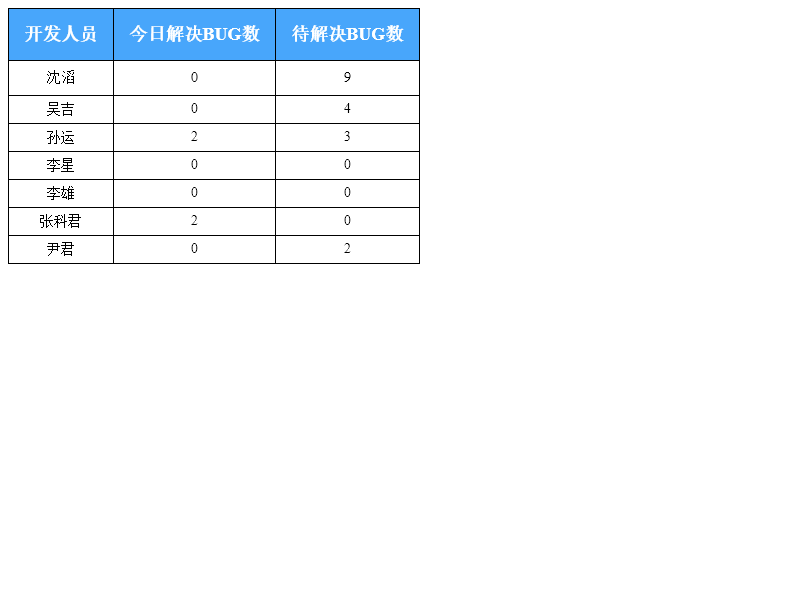
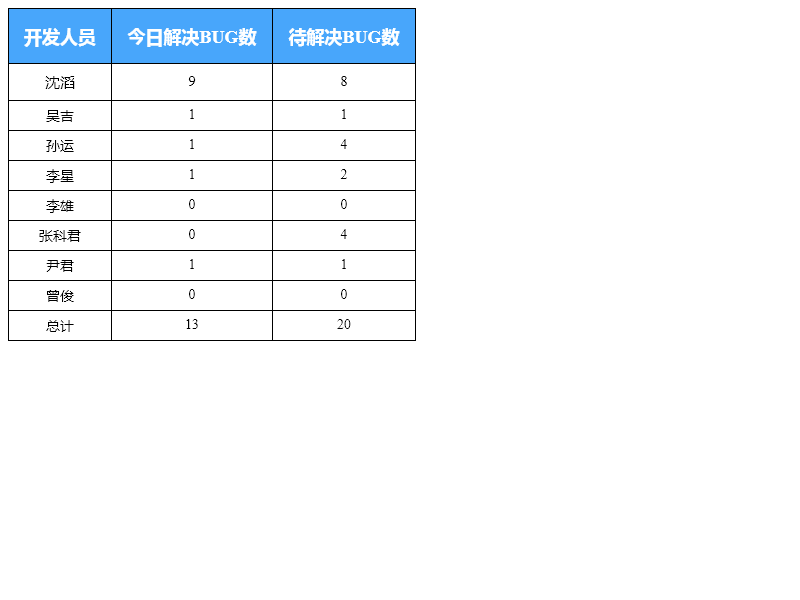
2021/1/8 增加总计统计，修复开发统计BUG

diff --git a/Tapd/html/developerHtml.html b/Tapd/html/developerHtml.html
@@ -5,6 +5,6 @@
     <title>模板</title>
 </head>
 <body>
-<table style="border-collapse:collapse;word-break:keep-all;white-space:nowrap;font-size:14px;"><tr style="color:#fff;background-color:#48a6fb;font-size:18px;"><th style="border-color:#000;border-width:1px;border-style:solid;padding:15px;text-align:center;">开发人员</th><th style="border-color:#000;border-width:1px;border-style:solid;padding:15px;text-align:center;">今日解决BUG数</th><th style="border-color:#000;border-width:1px;border-style:solid;padding:15px;text-align:center;">待解决BUG数</th></tr><tr><td style="border-color:#000;border-width:1px;border-style:solid;padding:8px;text-align:center;font-size:15px;">沈滔</td><td style="border-color:#000;border-width:1px;border-style:solid;padding:8px;text-align:center;font-size:15px;">0</td><td style="border-color:#000;border-width:1px;border-style:solid;padding:8px;text-align:center;font-size:15px;">9</td></tr><tr><td style="border-color:#000;border-width:1px;border-style:solid;padding:5px;text-align:center;">吴吉</td><td style="border-color:#000;border-width:1px;border-style:solid;padding:5px;text-align:center;">0</td><td style="border-color:#000;border-width:1px;border-style:solid;padding:5px;text-align:center;">4</td></tr><tr><td style="border-color:#000;border-width:1px;border-style:solid;padding:5px;text-align:center;">孙运</td><td style="border-color:#000;border-width:1px;border-style:solid;padding:5px;text-align:center;">2</td><td style="border-color:#000;border-width:1px;border-style:solid;padding:5px;text-align:center;">3</td></tr><tr><td style="border-color:#000;border-width:1px;border-style:solid;padding:5px;text-align:center;">李星</td><td style="border-color:#000;border-width:1px;border-style:solid;padding:5px;text-align:center;">0</td><td style="border-color:#000;border-width:1px;border-style:solid;padding:5px;text-align:center;">0</td></tr><tr><td style="border-color:#000;border-width:1px;border-style:solid;padding:5px;text-align:center;">李雄</td><td style="border-color:#000;border-width:1px;border-style:solid;padding:5px;text-align:center;">0</td><td style="border-color:#000;border-width:1px;border-style:solid;padding:5px;text-align:center;">0</td></tr><tr><td style="border-color:#000;border-width:1px;border-style:solid;padding:5px;text-align:center;">张科君</td><td style="border-color:#000;border-width:1px;border-style:solid;padding:5px;text-align:center;">2</td><td style="border-color:#000;border-width:1px;border-style:solid;padding:5px;text-align:center;">0</td></tr><tr><td style="border-color:#000;border-width:1px;border-style:solid;padding:5px;text-align:center;">尹君</td><td style="border-color:#000;border-width:1px;border-style:solid;padding:5px;text-align:center;">0</td><td style="border-color:#000;border-width:1px;border-style:solid;padding:5px;text-align:center;">2</td></tr></table>
+<table style="border-collapse:collapse;word-break:keep-all;white-space:nowrap;font-size:14px;"><tr style="color:#fff;background-color:#48a6fb;font-size:18px;"><th style="border-color:#000;border-width:1px;border-style:solid;padding:15px;text-align:center;">开发人员</th><th style="border-color:#000;border-width:1px;border-style:solid;padding:15px;text-align:center;">今日解决BUG数</th><th style="border-color:#000;border-width:1px;border-style:solid;padding:15px;text-align:center;">待解决BUG数</th></tr><tr><td style="border-color:#000;border-width:1px;border-style:solid;padding:8px;text-align:center;font-size:15px;">沈滔</td><td style="border-color:#000;border-width:1px;border-style:solid;padding:8px;text-align:center;font-size:15px;">9</td><td style="border-color:#000;border-width:1px;border-style:solid;padding:8px;text-align:center;font-size:15px;">8</td></tr><tr><td style="border-color:#000;border-width:1px;border-style:solid;padding:5px;text-align:center;">吴吉</td><td style="border-color:#000;border-width:1px;border-style:solid;padding:5px;text-align:center;">1</td><td style="border-color:#000;border-width:1px;border-style:solid;padding:5px;text-align:center;">1</td></tr><tr><td style="border-color:#000;border-width:1px;border-style:solid;padding:5px;text-align:center;">孙运</td><td style="border-color:#000;border-width:1px;border-style:solid;padding:5px;text-align:center;">1</td><td style="border-color:#000;border-width:1px;border-style:solid;padding:5px;text-align:center;">4</td></tr><tr><td style="border-color:#000;border-width:1px;border-style:solid;padding:5px;text-align:center;">李星</td><td style="border-color:#000;border-width:1px;border-style:solid;padding:5px;text-align:center;">1</td><td style="border-color:#000;border-width:1px;border-style:solid;padding:5px;text-align:center;">2</td></tr><tr><td style="border-color:#000;border-width:1px;border-style:solid;padding:5px;text-align:center;">李雄</td><td style="border-color:#000;border-width:1px;border-style:solid;padding:5px;text-align:center;">0</td><td style="border-color:#000;border-width:1px;border-style:solid;padding:5px;text-align:center;">0</td></tr><tr><td style="border-color:#000;border-width:1px;border-style:solid;padding:5px;text-align:center;">张科君</td><td style="border-color:#000;border-width:1px;border-style:solid;padding:5px;text-align:center;">0</td><td style="border-color:#000;border-width:1px;border-style:solid;padding:5px;text-align:center;">4</td></tr><tr><td style="border-color:#000;border-width:1px;border-style:solid;padding:5px;text-align:center;">尹君</td><td style="border-color:#000;border-width:1px;border-style:solid;padding:5px;text-align:center;">1</td><td style="border-color:#000;border-width:1px;border-style:solid;padding:5px;text-align:center;">1</td></tr><tr><td style="border-color:#000;border-width:1px;border-style:solid;padding:5px;text-align:center;">曾俊</td><td style="border-color:#000;border-width:1px;border-style:solid;padding:5px;text-align:center;">0</td><td style="border-color:#000;border-width:1px;border-style:solid;padding:5px;text-align:center;">0</td></tr><tr><td style="border-color:#000;border-width:1px;border-style:solid;padding:5px;text-align:center;">总计</td><td style="border-color:#000;border-width:1px;border-style:solid;padding:5px;text-align:center;">13</td><td style="border-color:#000;border-width:1px;border-style:solid;padding:5px;text-align:center;">20</td></tr></table>
 </body>
 </html>

diff --git a/Tapd/html/testerHtml.html b/Tapd/html/testerHtml.html
@@ -5,6 +5,6 @@
     <title>模板</title>
 </head>
 <body>
-<table style="border-collapse:collapse;word-break:keep-all;white-space:nowrap;font-size:14px;"><tr style="color:#fff;background-color:#48a6fb;font-size:18px;"><th style="border-color:#000;border-width:1px;border-style:solid;padding:15px;text-align:center;">测试人员</th><th style="border-color:#000;border-width:1px;border-style:solid;padding:15px;text-align:center;">今日提交BUG数</th><th style="border-color:#000;border-width:1px;border-style:solid;padding:15px;text-align:center;">待验证BUG数</th><th style="border-color:#000;border-width:1px;border-style:solid;padding:15px;text-align:center;">今日关闭BUG数</th></tr><tr><td style="border-color:#000;border-width:1px;border-style:solid;padding:8px;text-align:center;font-size:15px;">伍洋</td><td style="border-color:#000;border-width:1px;border-style:solid;padding:8px;text-align:center;font-size:15px;">0</td><td style="border-color:#000;border-width:1px;border-style:solid;padding:8px;text-align:center;font-size:15px;">4</td><td style="border-color:#000;border-width:1px;border-style:solid;padding:8px;text-align:center;font-size:15px;">0</td></tr><tr><td style="border-color:#000;border-width:1px;border-style:solid;padding:5px;text-align:center;">苏林子</td><td style="border-color:#000;border-width:1px;border-style:solid;padding:5px;text-align:center;">0</td><td style="border-color:#000;border-width:1px;border-style:solid;padding:5px;text-align:center;">12</td><td style="border-color:#000;border-width:1px;border-style:solid;padding:5px;text-align:center;">0</td></tr><tr><td style="border-color:#000;border-width:1px;border-style:solid;padding:5px;text-align:center;">刘巧利</td><td style="border-color:#000;border-width:1px;border-style:solid;padding:5px;text-align:center;">0</td><td style="border-color:#000;border-width:1px;border-style:solid;padding:5px;text-align:center;">1</td><td style="border-color:#000;border-width:1px;border-style:solid;padding:5px;text-align:center;">0</td></tr></table>
+<table style="border-collapse:collapse;word-break:keep-all;white-space:nowrap;font-size:14px;"><tr style="color:#fff;background-color:#48a6fb;font-size:18px;"><th style="border-color:#000;border-width:1px;border-style:solid;padding:15px;text-align:center;">测试人员</th><th style="border-color:#000;border-width:1px;border-style:solid;padding:15px;text-align:center;">今日提交BUG数</th><th style="border-color:#000;border-width:1px;border-style:solid;padding:15px;text-align:center;">待验证BUG数</th><th style="border-color:#000;border-width:1px;border-style:solid;padding:15px;text-align:center;">今日关闭BUG数</th></tr><tr><td style="border-color:#000;border-width:1px;border-style:solid;padding:8px;text-align:center;font-size:15px;">伍洋</td><td style="border-color:#000;border-width:1px;border-style:solid;padding:8px;text-align:center;font-size:15px;">6</td><td style="border-color:#000;border-width:1px;border-style:solid;padding:8px;text-align:center;font-size:15px;">5</td><td style="border-color:#000;border-width:1px;border-style:solid;padding:8px;text-align:center;font-size:15px;">17</td></tr><tr><td style="border-color:#000;border-width:1px;border-style:solid;padding:5px;text-align:center;">苏林子</td><td style="border-color:#000;border-width:1px;border-style:solid;padding:5px;text-align:center;">10</td><td style="border-color:#000;border-width:1px;border-style:solid;padding:5px;text-align:center;">3</td><td style="border-color:#000;border-width:1px;border-style:solid;padding:5px;text-align:center;">23</td></tr><tr><td style="border-color:#000;border-width:1px;border-style:solid;padding:5px;text-align:center;">刘巧利</td><td style="border-color:#000;border-width:1px;border-style:solid;padding:5px;text-align:center;">5</td><td style="border-color:#000;border-width:1px;border-style:solid;padding:5px;text-align:center;">14</td><td style="border-color:#000;border-width:1px;border-style:solid;padding:5px;text-align:center;">0</td></tr><tr><td style="border-color:#000;border-width:1px;border-style:solid;padding:5px;text-align:center;">文玉婷</td><td style="border-color:#000;border-width:1px;border-style:solid;padding:5px;text-align:center;">0</td><td style="border-color:#000;border-width:1px;border-style:solid;padding:5px;text-align:center;">3</td><td style="border-color:#000;border-width:1px;border-style:solid;padding:5px;text-align:center;">0</td></tr><tr><td style="border-color:#000;border-width:1px;border-style:solid;padding:5px;text-align:center;">唐洁TangJie01</td><td style="border-color:#000;border-width:1px;border-style:solid;padding:5px;text-align:center;">0</td><td style="border-color:#000;border-width:1px;border-style:solid;padding:5px;text-align:center;">0</td><td style="border-color:#000;border-width:1px;border-style:solid;padding:5px;text-align:center;">11</td></tr><tr><td style="border-color:#000;border-width:1px;border-style:solid;padding:5px;text-align:center;">总计</td><td style="border-color:#000;border-width:1px;border-style:solid;padding:5px;text-align:center;">21</td><td style="border-color:#000;border-width:1px;border-style:solid;padding:5px;text-align:center;">25</td><td style="border-color:#000;border-width:1px;border-style:solid;padding:5px;text-align:center;">51</td></tr></table>
 </body>
 </html>

diff --git a/Tapd/main.py b/Tapd/main.py
@@ -120,17 +120,17 @@ def testerData(my_datas, person, today, version):
     testerListData.append(str(submit_bugs))
     testerListData.append(str(verified_bugs))
     testerListData.append(str(close_bugs))
-    return testerListData
+    return testerListData,submit_bugs,verified_bugs,close_bugs
 
 def developerData(my_datas, person, today, version):
     developerListData = []
     solved_bugs = getdateNum(my_datas, {"解决时间": today, '修复人': person, "状态": "已解决", '发现版本': version})
-    surplus_bugs = getdateNum(my_datas, {"状态": "新", '处理人': person, '发现版本': version})
+    surplus_bugs = getdateNum(my_datas, {"状态": "新", '处理人': person, '发现版本': version}) + getdateNum(my_datas, {"状态": "接受/处理", '处理人': person, '发现版本': version})
 
     developerListData.append(person)
     developerListData.append(str(solved_bugs))
     developerListData.append(str(surplus_bugs))
-    return developerListData
+    return developerListData, solved_bugs, surplus_bugs
 
 
 if __name__ == '__main__':
@@ -160,13 +160,21 @@ if __name__ == '__main__':
     draw(list, dict, my_datas, version)
 
     # 脚本初始化
-    developer = ["沈滔", "吴吉", "孙运", "李星", "李雄", "张科君", "尹君"]
-    tester = ["伍洋", "苏林子", "刘巧利"]
+    developer = ["沈滔", "吴吉", "孙运", "李星", "李雄", "张科君", "尹君", "曾俊"]
+    tester = ["伍洋", "苏林子", "刘巧利", "文玉婷", "唐洁TangJie01"]
 
+    testerTotalSubmit_bugs = 0
+    testerTotalverified_bugs = 0
+    testerTotalclose_bugs = 0
     # 测试
     testerTotalData = []
     for person in tester:
-        testerTotalData.append(testerData(my_datas, person, today, version))
+        testerListData,submit_bugs,verified_bugs,close_bugs = testerData(my_datas, person, today, version)
+        testerTotalSubmit_bugs = testerTotalSubmit_bugs + submit_bugs
+        testerTotalverified_bugs = testerTotalverified_bugs + verified_bugs
+        testerTotalclose_bugs = testerTotalclose_bugs + close_bugs
+        testerTotalData.append(testerListData)
+    testerTotalData.append(["总计",str(testerTotalSubmit_bugs),str(testerTotalverified_bugs),str(testerTotalclose_bugs)])
 
     Title = (('测试人员', '今日提交BUG数', '待验证BUG数', '今日关闭BUG数'),)
     tester_html = 'testerHtml.html'
@@ -177,10 +185,16 @@ if __name__ == '__main__':
     testerPNG_path = './png/tester.png'
     createPng(driver, html_path, screenshot_path, testerPNG_path)
 
+    developerTotalSolved_bugs = 0
+    developerTotalSurplus_bugs = 0
     # 开发
     developerTotalData = []
     for person in developer:
-        developerTotalData.append(developerData(my_datas, person, today, version))
+        developerListData, solved_bugs, surplus_bugs = developerData(my_datas, person, today, version)
+        developerTotalSolved_bugs = developerTotalSolved_bugs + solved_bugs
+        developerTotalSurplus_bugs = developerTotalSurplus_bugs + surplus_bugs
+        developerTotalData.append(developerListData)
+    developerTotalData.append(["总计", str(developerTotalSolved_bugs), str(developerTotalSurplus_bugs)])
 
     Title = (('开发人员', '今日解决BUG数', '待解决BUG数'),)
     developer_html = 'developerHtml.html'
